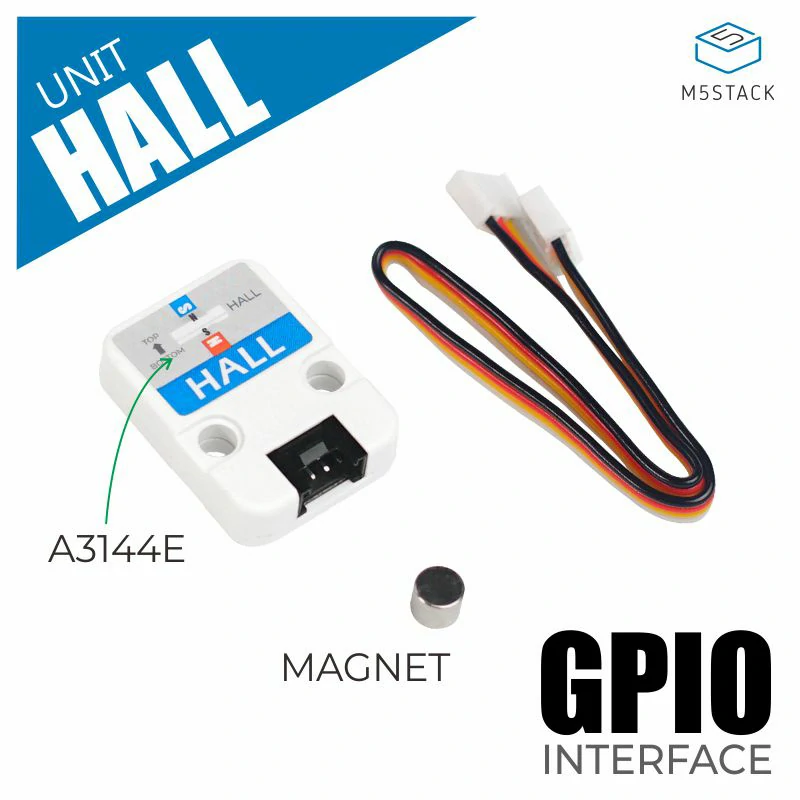
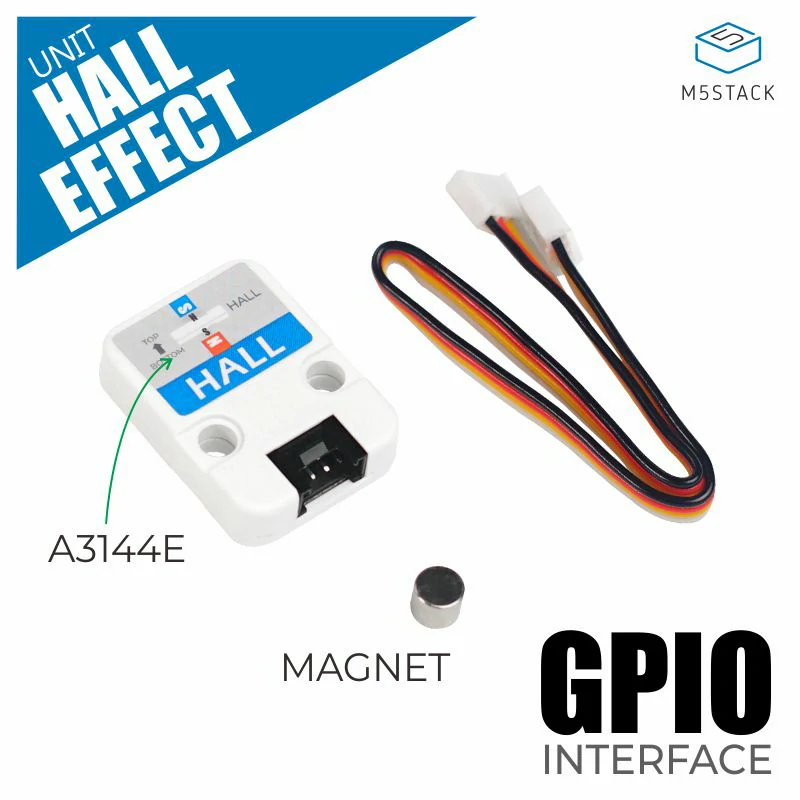
change hall unit --> hall effect unit

Changed region(s): [[0.0312, 0.0312, 0.3438, 0.2812]]

diff --git a/docs/en/unit/hall.md b/docs/en/unit/hall.md
@@ -1,4 +1,4 @@
-# Hall
+# Hall effect Unit
 
 <el-tag effect="plain">SKU:U084</el-tag>
 
@@ -6,7 +6,7 @@
 
 ## Description
 
-**Hall Unit** is a Hall sensor. Three A3144E Hall sensor switches are integrated internally, which are processed by 74HC series gate integrated circuits. Low-level signal can be generated when the magnet S pole is close to the top of the sensor or the N pole is close to the back, and the internal LED indicator will light up. It is widely used in applications such as door sensor alarms, proximity sensors, rotation speed measurement and so on. The front side is the North pole, and the low level is output when the south pole signal of the magnetic field is sensed.
+**Hall effect Unit**. Three A3144E Hall sensor switches are integrated internally, which are processed by 74HC series gate integrated circuits. Low-level signal can be generated when the magnet S pole is close to the top of the sensor or the N pole is close to the back, and the internal LED indicator will light up. It is widely used in applications such as door sensor alarms, proximity sensors, rotation speed measurement and so on. The front side is the North pole, and the low level is output when the south pole signal of the magnetic field is sensed.
 
 ## Produce Future
 
@@ -18,7 +18,7 @@
 
 ## Include
 
-- 1x Hall Unit
+- 1x Hall effect Unit
 - 1x GROVE Cable(20cm)
 - 1x Magnet
 
@@ -98,7 +98,7 @@
 
 <table>
  <tr><td>M5Core (PORT B)</td><td>GPIO26</td><td>GPIO36</td><td>5V</td><td>GND</td></tr>
- <tr><td>HALL Unit</td><td> </td><td>INPUT</td><td>5V</td><td>GND</td></tr>
+ <tr><td>Hall effect Unit</td><td> </td><td>INPUT</td><td>5V</td><td>GND</td></tr>
 </table>
 
 ## Related Links

diff --git a/docs/zh_CN/unit/hall.md b/docs/zh_CN/unit/hall.md
@@ -1,4 +1,4 @@
-# Hall
+# Hall effect Unit
 
 <el-tag effect="plain">SKU:U084</el-tag>
 
@@ -6,7 +6,7 @@
 
 ## 描述
 
-**Hall Unit** 是一款霍尔传感器. 内部集成3个A3144E霍尔感应开关，通过74系列门集成电路进行逻辑处理，当有S磁极物体靠近hall正面或N磁极靠近hall背面时可以产生低电平信号，同时内部的LED指示灯会点亮。霍尔传感器广泛应用于门磁报警、接近感应、转速测量等场景。
+**Hall effect Unit** 是一款霍尔传感器. 内部集成3个A3144E霍尔感应开关，通过74系列门集成电路进行逻辑处理，当有S磁极物体靠近hall正面或N磁极靠近hall背面时可以产生低电平信号，同时内部的LED指示灯会点亮。霍尔传感器广泛应用于门磁报警、接近感应、转速测量等场景。
 
 ## 产品特性
 
@@ -18,7 +18,7 @@
 
 ## 套件清单
 
-- 1x Hall Unit
+- 1x Hall effect Unit
 - 1x GROVE 线(20CM)
 - 1x 磁铁
 
@@ -101,7 +101,7 @@
 
 <table>
  <tr><td>M5Core ( PORT B )</td><td>GPIO26</td><td>GPIO36</td><td>5V</td><td>GND</td></tr>
- <tr><td>HALL Unit</td><td> </td><td>INPUT</td><td>5V</td><td>GND</td></tr>
+ <tr><td>Hall effect Unit</td><td> </td><td>INPUT</td><td>5V</td><td>GND</td></tr>
 </table>
 
 ## 相关链接
